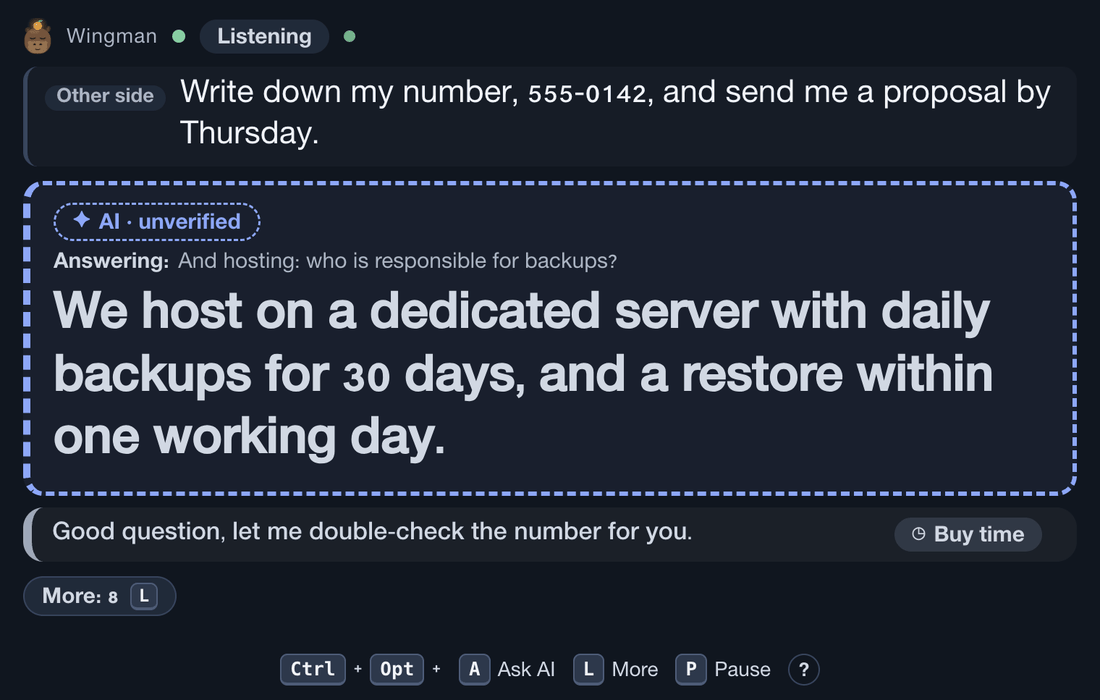
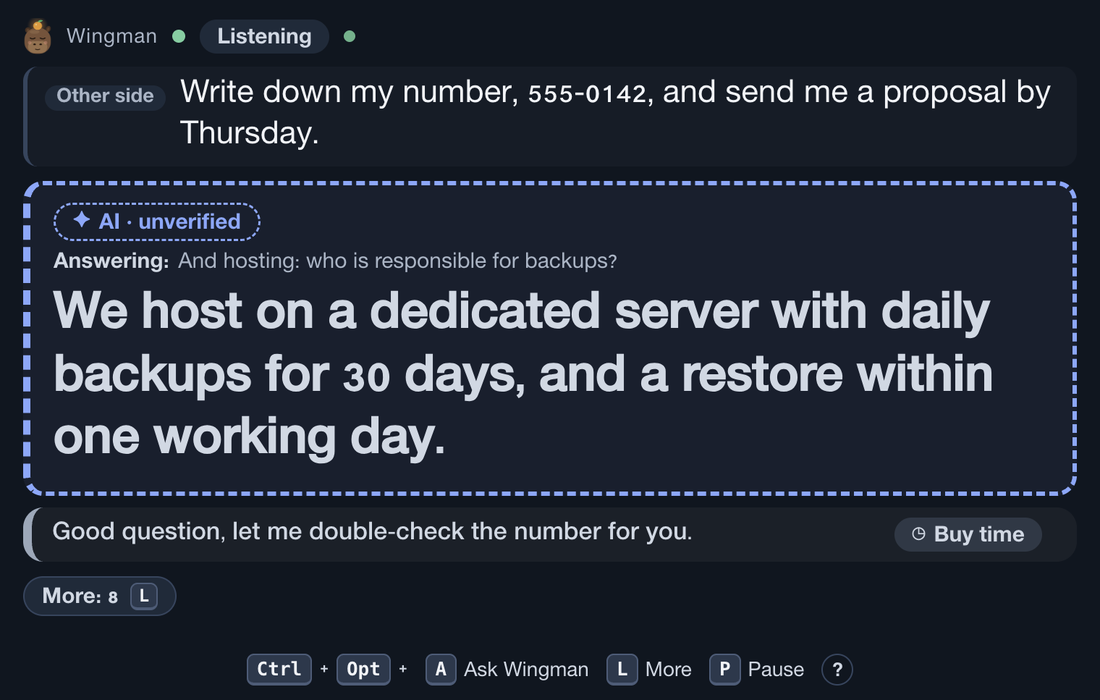
one name per action across windows and docs, setup reopen hint, Real call badge, About you in main settings
- Answer window: one name for Ask Wingman and for waiting to start listening
- Calls: call the summary and email 'Follow-up ready', show 'Real call' not 'Live', hide usefulness until rated
- Setup: say to quit and reopen Wingman after allowing System Audio Recording
- Settings: About you moves out of Advanced; language setting says it is the answer window only
- Calls: do not print 'null' when the usefulness strip is hidden
- Docs images: retake with the new labels (Ask Wingman, Follow-up ready, Real call, Starter answers)

Changed region(s): [[0.2164, 0.93, 0.7727, 0.99]]

diff --git a/app/dashboard/app.js b/app/dashboard/app.js
@@ -580,10 +580,10 @@ function waitingChips(c) {
   if (!c.crashed && c.hasSummary)
     out.push(
       linkChip(
-        "Summary",
+        "Follow-up ready",
         "info",
         stop(() => openCall(c.id, { tab: "followup" })),
-        "Summary ready, open Follow-up",
+        "Follow-up ready: summary and email, open the Follow-up tab",
       ),
     );
   return out.length ? out : [h("span", { class: "faint" }, "–")];
@@ -668,7 +668,7 @@ function nextUpCard() {
         "div",
         { class: "why" },
         p ? chip(`${plural(p, "card")} to rate`, "warn", { dot: true }) : null,
-        c.hasSummary ? chip("Summary ready", "info", { dot: true }) : null,
+        c.hasSummary ? chip("Follow-up ready", "info", { dot: true }) : null,
       ),
     ),
     h("button", { type: "button", class: "btn primary", onclick: go }, "Review", ico("chevron")),
@@ -742,7 +742,7 @@ function viewInbox(restoreFocus) {
   main.append(
     h("div", { class: "page-head" }, h("h1", {}, "Calls")),
     nextUpCard(),
-    gateStrip(),
+    ...(gateStats().ph == null ? [] : [gateStrip()]), // shown after the first rating
     h(
       "div",
       { class: "bar" },
@@ -944,7 +944,7 @@ function renderCall(tab) {
   const chips = h(
     "span",
     { class: "chips" },
-    chip(s.mode === "live" ? "Live" : "Practice", s.mode === "live" ? "good" : "", { dot: true }),
+    chip(s.mode === "live" ? "Real call" : "Practice", s.mode === "live" ? "good" : "", { dot: true }),
     s.profile ? chip(s.profile, "", { mono: true }) : null,
     s.noAi ? chip("No AI") : null,
   );

diff --git a/app/dashboard/settings.js b/app/dashboard/settings.js
@@ -130,6 +130,8 @@ function drawSettingsBody(body) {
     ),
   );
   jump.push(["g-main", "Main settings"]);
+  main.append(aboutBlock());
+  jump.push(["g-about", "About you"]);
   main.append(setupGuideBlock());
   jump.push(["g-setup", "Setup guide"]);
   main.append(advancedBlock(r));
@@ -511,13 +513,12 @@ function keysBlock(r) {
   );
 }
 
-/* ---- Advanced: one fold, closed by default (remembered). Holds About you, every other setting, the settings file and the read-only list ---- */
+/* ---- Advanced: one fold, closed by default (remembered). Holds every other setting, the settings file and the read-only list ---- */
 let advLoaded = false;
 function advancedBlock(r) {
   advLoaded = false;
   const body = h("div", { class: "advbody advmain" });
   if (r && r.ok) {
-    body.append(aboutBlock());
     for (const g of r.groups) {
       const rows = r.items.filter((i) => i.group === g.id && !i.main);
       if (!rows.length) continue;
@@ -573,7 +574,7 @@ function advancedBlock(r) {
   const d = h(
     "details",
     { class: "collapsed adv", id: "adv", open: SET.advOpen || !!SU.acks.advOpen },
-    h("summary", {}, ico("chevron"), "Advanced", h("span", { class: "faint" }, "\u00b7 about you, tuning, the settings file")),
+    h("summary", {}, ico("chevron"), "Advanced", h("span", { class: "faint" }, "\u00b7 tuning, the settings file")),
     body,
   );
   d.addEventListener("toggle", () => {

diff --git a/app/overlay/strings.js b/app/overlay/strings.js
@@ -119,8 +119,8 @@
     "state.starting": "Starting…",
     "state.starting.title": "Starting the call…",
     "state.starting.sub": "Connecting to audio and transcription. A few more seconds.",
-    "state.waiting": "Waiting for approval",
-    "state.waiting.title": "Waiting for you to approve listening",
+    "state.waiting": "Waiting for you to start listening",
+    "state.waiting.title": "Waiting for you to start listening",
     "state.waiting.sub": "Not listening yet. Press {key} or choose Start listening in the menu.",
     "state.listening": "Listening",
     "state.listening.title": "Listening…",
@@ -180,7 +180,7 @@
     "cap.domain": "Domain",
     "ask.listening": "Listening for your question… {left}",
     "ask.seconds": "{n}s",
-    "keys.ask": "Ask AI",
+    "keys.ask": "Ask Wingman",
     "keys.rewind": "What they said",
     "keys.checklist": "Checklist",
     "keys.pause": "Pause",
@@ -191,7 +191,7 @@
     "more.title": "More: {n}",
     "badge.writing": "Writing…",
     "health.onlyYou": "Hearing only you. For answers to the other side, join the call or play its audio.",
-    "health.askMe": " Ask AI: {key}",
+    "health.askMe": " Ask Wingman: {key}",
     "health.who.stt-me": "Your microphone",
     "health.who.stt-them": "The other side",
     "health.checkNet": ". Check your internet connection",

diff --git a/app/dashboard/home.js b/app/dashboard/home.js
@@ -611,7 +611,7 @@ function afterCard(s, kind) {
     h(
       "div",
       { class: "grow" },
-      h("b", {}, s.summaryOk ? "Summary ready." : s.endedCleanly ? "Call saved." : "The call ended with a problem."),
+      h("b", {}, s.summaryOk ? "Follow-up ready." : s.endedCleanly ? "Call saved." : "The call ended with a problem."),
       " ",
       s.summaryOk
         ? "The follow-up email is ready to copy."
@@ -1380,7 +1380,9 @@ function waitingCard() {
             "span",
             { class: "wait" },
             p ? linkChip([h("span", { class: "ctr" }, p), " to rate"], "warn", () => go({ tab: "rate", filter: "unrated" }), `${p} to rate, open Rate`) : null,
-            c.hasSummary ? linkChip("Follow-up email", "info", () => go({ tab: "followup" }), "Summary ready, open Follow-up") : null,
+            c.hasSummary
+              ? linkChip("Follow-up ready", "info", () => go({ tab: "followup" }), "Follow-up ready: summary and email, open the Follow-up tab")
+              : null,
           ),
         );
       }),

diff --git a/app/src/overlay.test.ts b/app/src/overlay.test.ts
@@ -140,7 +140,7 @@ test("t(): placeholders, unknown language falls back to Hebrew, direction follow
 });
 
 test("healthText: English when the UI language is en, Hebrew by default", () => {
-  assert.match(text.healthText("health-only-you", "x", "Ctrl+Opt+A", "en"), /^Hearing only you\..* Ask AI: Ctrl\+Opt\+A$/);
+  assert.match(text.healthText("health-only-you", "x", "Ctrl+Opt+A", "en"), /^Hearing only you\..* Ask Wingman: Ctrl\+Opt\+A$/);
   assert.match(text.healthText("health-only-you", "x", "", "he"), /^שומע רק אותך/);
   assert.equal(text.healthText("health-mic", "המיקרופון לא קולט. בדוק הרשאה"), "המיקרופון לא קולט. בדוק הרשאה"); // default language: unchanged
   assert.match(

diff --git a/app/dashboard/setup.js b/app/dashboard/setup.js
@@ -403,6 +403,12 @@ function permsPanel() {
           { class: "faint st-w" },
           "Lets Wingman hear the other side of the call. macOS does not tell apps whether this is on, so the readiness check tests it for real.",
         ),
+        h(
+          "div",
+          { class: "st-w" },
+          h("b", {}, "After you allow it, quit and reopen Wingman."),
+          " macOS only applies the new permission to an app that starts again.",
+        ),
       ),
       SU.acks.audio ? chip("You said it is on", "good", { dot: true }) : null,
       btn("Open System Audio Recording settings", {
